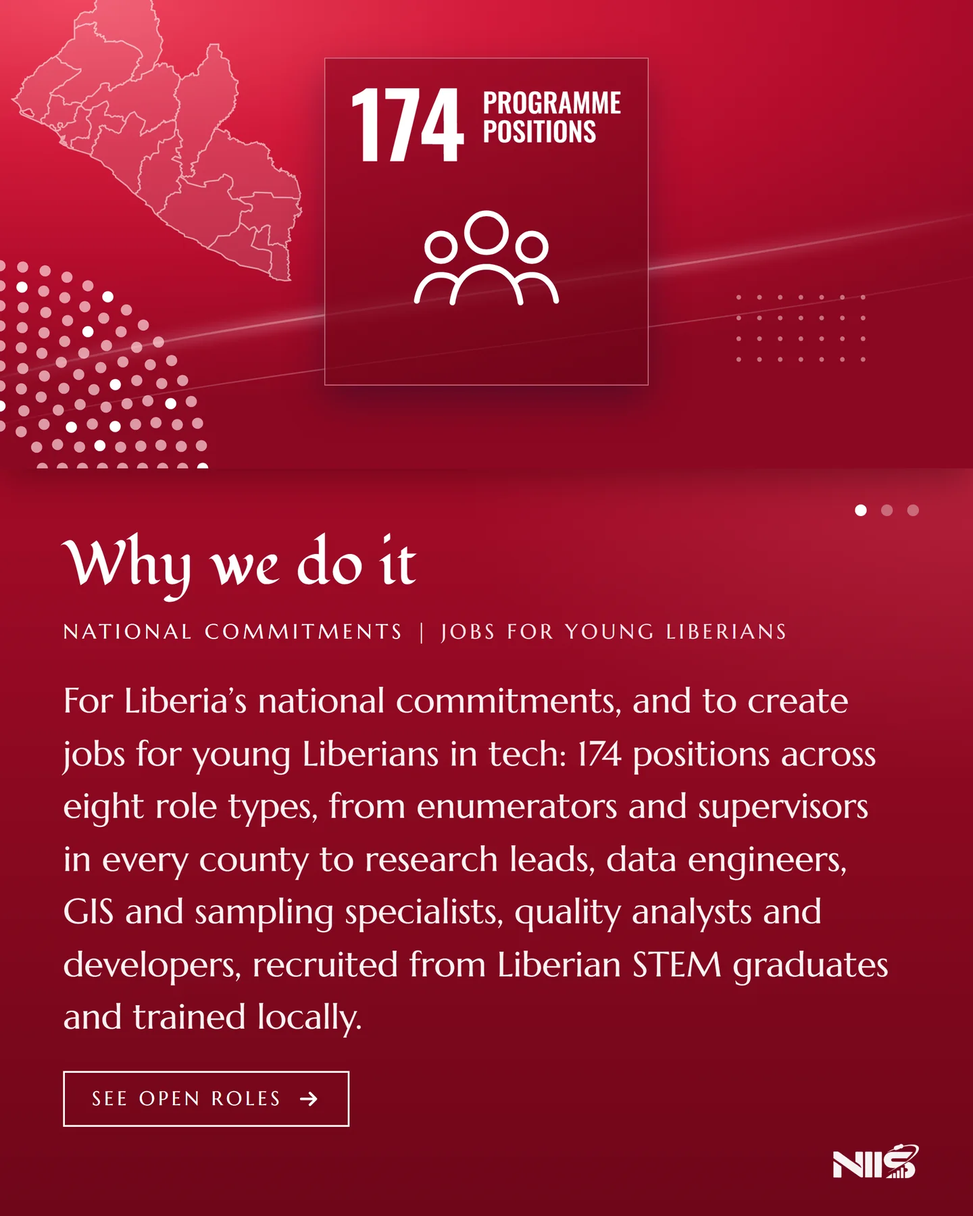
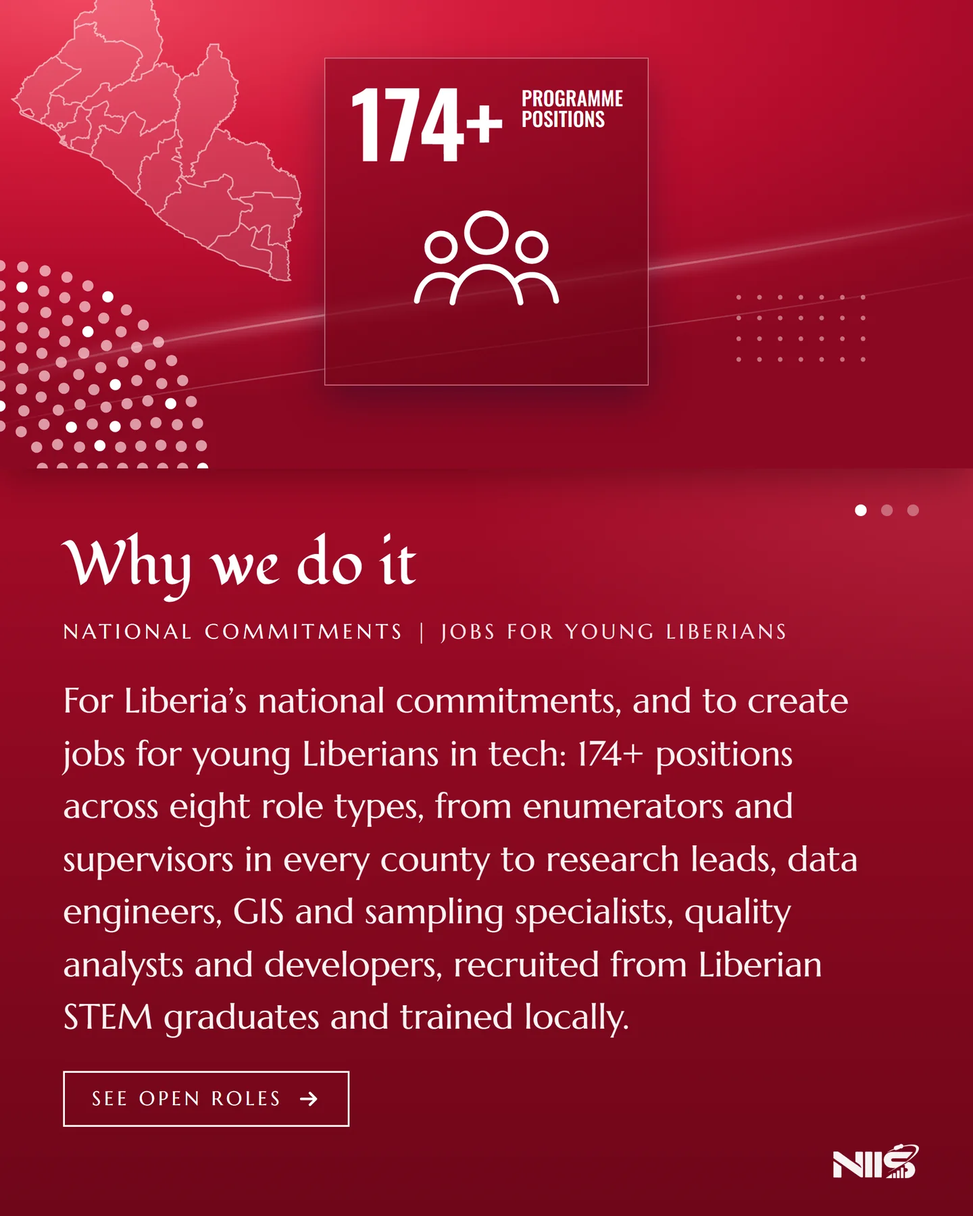
Research groups under review; no floating seal; the bird rests; jobs always 174+
- Research group pages: the invented members, emails and phone extensions are
  deleted (from the data too). Each group and its members read "Under Review".
- About and Careers: the floating 3D seal (the Republic's coat of arms) is gone.
- The bird: after 40 seconds with the reader it flies off the screen, stays away
  10 seconds and comes back, for as long as they stay (never mid-hunt or mid-slip;
  the clock runs only while the page shows).
- Jobs are never given exactly: 174+ positions on the About page, its numbers and
  its "Why we do it" card (re-rendered).

Changed region(s): [[0.0625, 0.5911, 0.9062, 0.8711], [0.4688, 0.0622, 0.6562, 0.1244]]

diff --git a/views.js b/views.js
@@ -1875,7 +1875,7 @@ exports.dashboardTopic = (ctx, { slug, label, description, counties, narrative }
 // scrolls. [alt text, link]
 const SLIDES = [
   ['What we do. 15 counties, collected, validated, published. We collect, validate and publish Liberia’s ICT statistics for all 15 counties, and we build the infrastructure that keeps them at home.'],
-  ['Why we do it. For Liberia’s national commitments, and to create jobs for young Liberians in tech: 174 positions across eight role types, from enumerators and supervisors in every county to research leads, data engineers, GIS and sampling specialists, quality analysts and developers, recruited from Liberian STEM graduates and trained locally. See open roles.', '/careers'],
+  ['Why we do it. For Liberia’s national commitments, and to create jobs for young Liberians in tech: 174+ positions across eight role types, from enumerators and supervisors in every county to research leads, data engineers, GIS and sampling specialists, quality analysts and developers, recruited from Liberian STEM graduates and trained locally. See open roles.', '/careers'],
   ['Commitment 1 of 6: ARREST Agenda for Inclusive Development, 2025 to 2029. ICT modernization sits in the Infrastructure pillar. NIIS is built to measure it.'],
   ['Commitment 2 of 6: National Digital Strategy, 2025 to 2029, of the Ministry of Posts and Telecommunications. Cybersecurity and data sovereignty is one of its eight priorities. NIIS is built to serve it.'],
   ['Commitment 3 of 6: Data Protection Act, enacted 2026. Built to Liberia’s first personal-data law: aggregate, anonymized statistics only.'],
@@ -1897,7 +1897,7 @@ exports.about = (ctx, { indicatorCount = 0, domainCount = 0 } = {}) => {
     [15, 'Counties measured', 'Every indicator, nationwide'],
     [indicatorCount, 'Indicators in the catalogue', 'Published and documented'],
     [domainCount, 'Indicator domains', 'From connectivity to sustainability'],
-    [174, 'Programme positions', 'Created for Liberian staff'],
+    [174, 'Programme positions', 'Created for Liberian staff', '+'],   // never exact: always 174+ (the owner, 9 Nov 2026)
   ].filter(([n]) => n > 0);
 
   // the mission, the problem and the answer, cut short for the kinetic type (the owner asked for few
@@ -1934,7 +1934,6 @@ exports.about = (ctx, { indicatorCount = 0, domainCount = 0 } = {}) => {
   return shell(ctx, {
     title: 'About', active: '/about', workspaceActive: 'about', extraHead: CAREERS_HEAD + `<script src="/assets/glass-folder.js?v=${ASSET_V}" defer></script>`, body: `
   <div class="cs ab" id="abPage">
-    <canvas class="cs-star" id="csStar" aria-hidden="true" data-seal="${esc(sealArt())}"></canvas>
     <section class="cs-hero cs-hero--film ab-hero" data-star="film" aria-labelledby="abTitle">
       <video class="cs-film" autoplay muted loop playsinline preload="auto" poster="/media/about-hero-poster.jpg" aria-hidden="true">
         <source src="/media/about-hero-720.mp4" type="video/mp4" media="(max-width: 760px)">
@@ -1965,9 +1964,9 @@ exports.about = (ctx, { indicatorCount = 0, domainCount = 0 } = {}) => {
           <div class="cs-row"><dt><span class="cs-tag">The access</span></dt><dd data-fill>We provide training and boot camps in partnership with international and local universities. And anyone who wants more data, a particular dataset or a new indicator can open a secure account on the platform, to search and save papers and reports, submit their research, and search for a job.</dd></div>
           <div class="cs-row"><dt><span class="cs-tag">The reason</span></dt><dd data-fill>For Liberia’s national commitments, and to create jobs for young Liberians in tech.</dd></div>
         </dl>
-        ${stats.length ? `<div class="ab-stats" role="list" aria-label="NIIP in numbers">${stats.map(([n, l, s], i) => `
+        ${stats.length ? `<div class="ab-stats" role="list" aria-label="NIIP in numbers">${stats.map(([n, l, s, plus = ''], i) => `
           <div class="ab-stat" role="listitem"${rise(i)}>
-            <p class="ab-stat-n" data-count="${n}">${n}</p>
+            <p class="ab-stat-n" data-count="${n}">${n}${plus}</p>
             <p class="ab-stat-l">${esc(l)}</p>
             <p class="ab-stat-s">${esc(s)}</p>
           </div>`).join('')}
@@ -2638,9 +2637,10 @@ const rsMeta = (p) => `<span class="bbc-meta"><time datetime="${esc(p.published_
 // The photos are slots in the Image Library (researchGroup). The site keeps no sign-up list yet, so the
 // form writes the request out as an email to the program.
 const RG_CONTACT = { email: 'info@niip.org', phones: ['0888 771 973', '0777 129 261'], office: 'Monrovia, Liberia' };
-// The six research areas (from the program deck), each with its own page. The GROUPS AND MEMBERS ARE
-// SAMPLES, written at the owner's request (29 October 2026) to show the page until the first real groups
-// form; the page says so. The rest follows international practice and is real: each group is classed by
+// The six research areas (from the program deck), each with its own page. The groups were written at the
+// owner's request (29 October 2026) to show the page until the first real groups form; their invented
+// members and contacts were deleted when the site went live (9 Nov 2026), and each group reads "Under
+// Review" until its real members are named. The rest follows international practice and is real: each group is classed by
 // the OECD Fields of Research and Development (Frascati Manual 2015) and a UN SDG target; each member's
 // contribution uses CRediT, the Contributor Roles Taxonomy (ANSI/NISO Z39.104-2022); each area lists the
 // published international standards its research works to. Members are named without institutions, so
@@ -2658,7 +2658,6 @@ const RG_SDG = { '1.4': 'Equal rights to economic resources, including financial
   '11.3': 'Inclusive, sustainable urbanization and participatory planning', '16.6': 'Effective, accountable and transparent institutions',
   '16.9': 'Legal identity for all', '16.10': 'Public access to information and fundamental freedoms', '16.a': 'National capacity to prevent violence and combat crime',
   '17.18': 'High-quality, timely and reliable data' };
-// a member: [name, role, expertise, country (and "visiting" for a visiting researcher), CRediT roles]
 const RG_AREAS = [
   { slug: 'ai', name: 'Artificial intelligence', key: 'AI',
     lede: 'Machine learning, language technology and responsible AI, built on Liberian data and Liberian questions.',
@@ -2672,29 +2671,15 @@ const RG_AREAS = [
       { slug: 'liberian-languages-nlp', name: 'Liberian Languages NLP Group', status: 'Recruiting',
         topic: 'Speech and text tools for Kpelle, Bassa and Liberian English',
         sum: 'Building open datasets and models so that digital services can listen and answer in the languages Liberians speak.',
-        tags: ['Natural language processing', 'Speech recognition', 'Low-resource languages'], ford: ['1.2', '6.2'], sdg: '10.2', std: 'UNESCO AI Ethics · FAIR data',
-        people: [['Dr. Garmai Kollie', 'Principal Investigator', 'Computational linguistics', 'Liberia', 'con sup fun'],
-          ['Dr. Kwame Owusu-Ansah', 'Co-Investigator', 'Speech recognition', 'Ghana, visiting', 'met sof'],
-          ['Siatta Flomo', 'Doctoral Researcher', 'Kpelle text corpora', 'Liberia', 'dat inv'],
-          ['Varney Kpoto', 'Research Software Engineer', 'Model training pipelines', 'Liberia', 'sof val'],
-          ['Yassah Gbatu', 'Research Assistant', 'Bassa transcription', 'Liberia', 'dat inv']] },
+        tags: ['Natural language processing', 'Speech recognition', 'Low-resource languages'], ford: ['1.2', '6.2'], sdg: '10.2', std: 'UNESCO AI Ethics · FAIR data' },
       { slug: 'responsible-ai-public-services', name: 'Responsible AI & Public Services', status: 'Active',
         topic: 'Where can AI help Liberia’s ministries, and under what safeguards?',
         sum: 'Testing small, explainable AI tools against real public-service tasks, with a risk assessment before any of them is used.',
-        tags: ['AI governance', 'Public sector', 'Risk assessment'], ford: ['1.2', '5.6'], sdg: '16.6', std: 'ISO/IEC 42001 · OECD AI Principles',
-        people: [['Dr. Augustine Sumo', 'Principal Investigator', 'AI governance', 'Liberia', 'con sup pro'],
-          ['Dr. Wanjiru Kamau', 'Co-Investigator', 'Algorithmic risk assessment', 'Kenya, visiting', 'met for'],
-          ['Patience Togba', 'Research Fellow', 'Public administration', 'Liberia', 'inv wri'],
-          ['Moses Zinnah', 'Doctoral Researcher', 'Explainable models', 'Liberia', 'sof for'],
-          ['Hawa Kanneh', 'Research Assistant', 'Stakeholder interviews', 'Liberia', 'inv']] },
+        tags: ['AI governance', 'Public sector', 'Risk assessment'], ford: ['1.2', '5.6'], sdg: '16.6', std: 'ISO/IEC 42001 · OECD AI Principles' },
       { slug: 'agri-vision-lab', name: 'Agri-Vision Lab', status: 'Active',
         topic: 'Crop disease detection from smartphone photos for smallholder farmers',
         sum: 'Training vision models on photos taken with farmers in the field, small enough to run offline on an ordinary phone.',
-        tags: ['Computer vision', 'Agriculture', 'Edge AI'], ford: ['1.2', '4.1'], sdg: '2.3', std: 'ISO/IEC 22989 · FAIR data',
-        people: [['Dr. Comfort Wesseh', 'Principal Investigator', 'Computer vision', 'Liberia', 'con sup fun'],
-          ['Dr. Tunde Adeyemi', 'Co-Investigator', 'Edge AI on smartphones', 'Nigeria, visiting', 'sof met'],
-          ['Prince Kerkula', 'Doctoral Researcher', 'Crop disease datasets', 'Liberia', 'dat inv'],
-          ['Musu Dolo', 'Research Assistant', 'Field photography with farmers', 'Liberia', 'inv res']] },
+        tags: ['Computer vision', 'Agriculture', 'Edge AI'], ford: ['1.2', '4.1'], sdg: '2.3', std: 'ISO/IEC 22989 · FAIR data' },
     ] },
   { slug: 'data-science', name: 'Data science', key: 'Data',
     lede: 'Statistics, surveys and methods that turn the national ICT record into figures people can trust.',
@@ -2708,28 +2693,15 @@ const RG_AREAS = [
       { slug: 'survey-methods-unit', name: 'Survey Methods Unit', status: 'Active',
         topic: 'Small-area estimates of internet use for all 15 counties',
         sum: 'Combining household surveys with administrative data to give every county a reliable figure, with its margin of error beside it.',
-        tags: ['Survey sampling', 'Small-area estimation', 'Official statistics'], ford: ['1.1'], sdg: '17.18', std: 'UN Fundamental Principles · DDI',
-        people: [['Prof. Samuel Tarr', 'Principal Investigator', 'Survey statistics', 'Liberia', 'con met sup'],
-          ['Dr. Fatmata Sesay', 'Co-Investigator', 'Small-area estimation', 'Sierra Leone, visiting', 'met for'],
-          ['Korto Mulbah', 'Research Fellow', 'Sampling frames', 'Liberia', 'dat val'],
-          ['Isaac Gono', 'Doctoral Researcher', 'Bayesian models', 'Liberia', 'for sof'],
-          ['Oretha Saah', 'Research Assistant', 'Field supervision', 'Liberia', 'inv']] },
+        tags: ['Survey sampling', 'Small-area estimation', 'Official statistics'], ford: ['1.1'], sdg: '17.18', std: 'UN Fundamental Principles · DDI' },
       { slug: 'open-data-fair-practice', name: 'Open Data & FAIR Practice', status: 'Active',
         topic: 'Making NIIS indicators findable, accessible, interoperable and reusable',
         sum: 'Writing the metadata, identifiers and open licences that let anyone reuse the national indicators with confidence.',
-        tags: ['Metadata', 'SDMX', 'Open data'], ford: ['1.2'], sdg: '17.18', std: 'FAIR · ISO 17369 (SDMX)',
-        people: [['Dr. Martha Karpeh', 'Principal Investigator', 'Research data management', 'Liberia', 'con dat sup'],
-          ['Jean-Paul Habimana', 'Visiting Researcher', 'SDMX and metadata', 'Rwanda, visiting', 'met sof'],
-          ['Arthur Kromah', 'Data Steward', 'Indicator metadata', 'Liberia', 'dat val'],
-          ['Elfreda Jallah', 'Research Assistant', 'Open licensing', 'Liberia', 'res rev']] },
+        tags: ['Metadata', 'SDMX', 'Open data'], ford: ['1.2'], sdg: '17.18', std: 'FAIR · ISO 17369 (SDMX)' },
       { slug: 'data-literacy-lab', name: 'Data Literacy Lab', status: 'Recruiting',
         topic: 'Helping county officers read and use ICT indicators',
         sum: 'Designing short courses and plain charts, then measuring whether officers use the figures in their own planning.',
-        tags: ['Data literacy', 'Visualization', 'Capacity building'], ford: ['5.3'], sdg: '4.4', std: 'UN Fundamental Principles',
-        people: [['Dr. Benedict Tokpa', 'Principal Investigator', 'Statistics education', 'Liberia', 'con sup'],
-          ['Esther Gbollie', 'Research Fellow', 'Visualization design', 'Liberia', 'vis wri'],
-          ['Abena Boateng', 'Visiting Researcher', 'Learning evaluation', 'Ghana, visiting', 'met for'],
-          ['Lawrence Wleh', 'Research Assistant', 'County workshops', 'Liberia', 'inv pro']] },
+        tags: ['Data literacy', 'Visualization', 'Capacity building'], ford: ['5.3'], sdg: '4.4', std: 'UN Fundamental Principles' },
     ] },
   { slug: 'cybersecurity', name: 'Cybersecurity', key: 'Cyber',
     lede: 'Protecting networks, services and personal data as more of Liberia’s life moves online.',
@@ -2743,28 +2715,15 @@ const RG_AREAS = [
       { slug: 'threat-intelligence-group', name: 'Threat Intelligence Group', status: 'Active',
         topic: 'Mapping phishing and mobile-money fraud patterns in Liberia',
         sum: 'Collecting reported incidents into one anonymised dataset, so patterns can be seen and warnings given early.',
-        tags: ['Threat intelligence', 'Fraud', 'Incident data'], ford: ['1.2'], sdg: '16.a', std: 'NIST CSF 2.0 · ITU-T X.1205',
-        people: [['Dr. Jerome Kamara', 'Principal Investigator', 'Threat intelligence', 'Liberia', 'con sup pro'],
-          ['Dr. Chiamaka Okafor', 'Co-Investigator', 'Fraud analytics', 'Nigeria, visiting', 'for met'],
-          ['Kebeh Tweh', 'Doctoral Researcher', 'Phishing detection', 'Liberia', 'sof inv'],
-          ['Stephen Sackie', 'Research Assistant', 'Incident data collection', 'Liberia', 'dat inv']] },
+        tags: ['Threat intelligence', 'Fraud', 'Incident data'], ford: ['1.2'], sdg: '16.a', std: 'NIST CSF 2.0 · ITU-T X.1205' },
       { slug: 'critical-infrastructure-security', name: 'Critical Infrastructure Security', status: 'Active',
         topic: 'How resilient are the networks and data centres Liberia depends on?',
         sum: 'Assessing single points of failure and recovery plans, and setting out what a minimum standard should be.',
-        tags: ['Critical infrastructure', 'Resilience', 'Risk assessment'], ford: ['2.2'], sdg: '9.1', std: 'ISO/IEC 27001 · NIST CSF 2.0',
-        people: [['Prof. Alfred Nimely', 'Principal Investigator', 'Network resilience', 'Liberia', 'con sup fun'],
-          ['Dr. Ibrahim Kargbo', 'Co-Investigator', 'Industrial control systems', 'Sierra Leone, visiting', 'met val'],
-          ['Mercy Paye', 'Research Fellow', 'Information security risk', 'Liberia', 'inv wri'],
-          ['Daniel Kpadeh', 'Research Software Engineer', 'Monitoring tools', 'Liberia', 'sof'],
-          ['Princess Teah', 'Research Assistant', 'Asset inventories', 'Liberia', 'dat']] },
+        tags: ['Critical infrastructure', 'Resilience', 'Risk assessment'], ford: ['2.2'], sdg: '9.1', std: 'ISO/IEC 27001 · NIST CSF 2.0' },
       { slug: 'privacy-data-protection-clinic', name: 'Privacy & Data Protection Clinic', status: 'Recruiting',
         topic: 'Putting data protection into practice for Liberia’s small businesses',
         sum: 'Plain guidance and simple checklists, tested with real shops, schools and clinics that keep customer data.',
-        tags: ['Privacy', 'Compliance', 'Personal data'], ford: ['5.5'], sdg: '16.10', std: 'Malabo Convention · ISO/IEC 27001',
-        people: [['Dr. Teta Zubah', 'Principal Investigator', 'Data protection law', 'Liberia', 'con sup wri'],
-          ['Aminata Diallo', 'Visiting Researcher', 'Privacy engineering', 'Senegal, visiting', 'met rev'],
-          ['Edwin Karmo', 'Doctoral Researcher', 'Compliance for small firms', 'Liberia', 'inv for'],
-          ['Fatu Konneh', 'Research Assistant', 'Case studies', 'Liberia', 'inv']] },
+        tags: ['Privacy', 'Compliance', 'Personal data'], ford: ['5.5'], sdg: '16.10', std: 'Malabo Convention · ISO/IEC 27001' },
     ] },
   { slug: 'connectivity', name: 'Connectivity', key: 'Net',
     lede: 'Coverage, quality, price and use: who is online in Liberia, how well, and at what cost.',
@@ -2778,28 +2737,15 @@ const RG_AREAS = [
       { slug: 'broadband-quality-observatory', name: 'Broadband Quality Observatory', status: 'Active',
         topic: 'Measuring mobile broadband speed and latency county by county',
         sum: 'Pairing drive tests with measurements from volunteers’ phones to map real network quality across the 15 counties.',
-        tags: ['Quality of service', 'Network measurement', 'Crowdsourced data'], ford: ['2.2'], sdg: '9.c', std: 'ITU-T E.800 · ITU Handbook',
-        people: [['Dr. Christopher Gaye', 'Principal Investigator', 'Network measurement', 'Liberia', 'con met sup'],
-          ['Otieno Ochieng', 'Visiting Researcher', 'Crowdsourced QoS data', 'Kenya, visiting', 'sof for'],
-          ['Kula Siaffa', 'Doctoral Researcher', 'Speed and latency analysis', 'Liberia', 'for vis'],
-          ['Momo Kiazolu', 'Research Software Engineer', 'Measurement app', 'Liberia', 'sof'],
-          ['Mamie Dunbar', 'Research Assistant', 'County drive tests', 'Liberia', 'inv dat']] },
+        tags: ['Quality of service', 'Network measurement', 'Crowdsourced data'], ford: ['2.2'], sdg: '9.c', std: 'ITU-T E.800 · ITU Handbook' },
       { slug: 'affordability-access', name: 'Affordability & Access', status: 'Active',
         topic: 'What does 1 GB cost a Liberian household, and who is priced out?',
         sum: 'Tracking data prices against household budgets, measured against the “1 for 2” target.',
-        tags: ['Affordability', 'Pricing', 'Household budgets'], ford: ['5.2'], sdg: '9.c', std: '“1 for 2” target · ITU Manual',
-        people: [['Dr. Elizabeth Nyan', 'Principal Investigator', 'Telecom economics', 'Liberia', 'con sup fun'],
-          ['Dr. Kofi Mensah', 'Co-Investigator', 'Price benchmarking', 'Ghana, visiting', 'met for'],
-          ['Joseph Dahn', 'Research Fellow', 'Household budgets', 'Liberia', 'inv for'],
-          ['Massa Gweh', 'Research Assistant', 'Price collection', 'Liberia', 'dat']] },
+        tags: ['Affordability', 'Pricing', 'Household budgets'], ford: ['5.2'], sdg: '9.c', std: '“1 for 2” target · ITU Manual' },
       { slug: 'rural-connectivity-models', name: 'Rural Connectivity Models', status: 'Recruiting',
         topic: 'Community networks and satellite backhaul for unconnected towns',
         sum: 'Costing the ways a town without coverage could get online, and who would run and pay for each.',
-        tags: ['Community networks', 'Satellite', 'Last mile'], ford: ['2.2'], sdg: '9.c', std: 'ITU Manual · ITU Handbook',
-        people: [['Dr. Peter Kun', 'Principal Investigator', 'Last-mile networks', 'Liberia', 'con sup'],
-          ['Thandiwe Nkosi', 'Visiting Researcher', 'Community networks', 'South Africa, visiting', 'met res'],
-          ['Saye Dweh', 'Doctoral Researcher', 'Satellite backhaul costs', 'Liberia', 'for inv'],
-          ['Ruth Wreh', 'Research Assistant', 'Town surveys', 'Liberia', 'inv']] },
+        tags: ['Community networks', 'Satellite', 'Last mile'], ford: ['2.2'], sdg: '9.c', std: 'ITU Manual · ITU Handbook' },
     ] },
   { slug: 'digital-finance', name: 'Digital finance', key: 'Fin',
     lede: 'Mobile money, digital payments and the inclusion they bring, or leave out.',
@@ -2813,28 +2759,15 @@ const RG_AREAS = [
       { slug: 'mobile-money-inclusion', name: 'Mobile Money Inclusion Group', status: 'Active',
         topic: 'Who uses mobile money in Liberia, and who is left out?',
         sum: 'Survey and agent interviews on use, trust and cost, broken down by gender, age and county.',
-        tags: ['Financial inclusion', 'Gender gap', 'Surveys'], ford: ['5.2'], sdg: '8.10', std: 'G20 Principles · DDI',
-        people: [['Dr. Yatta Morris', 'Principal Investigator', 'Financial inclusion', 'Liberia', 'con sup fun'],
-          ['Dr. Akosua Asare', 'Co-Investigator', 'Gender and finance', 'Ghana, visiting', 'met wri'],
-          ['Abraham Juah', 'Doctoral Researcher', 'Survey analysis', 'Liberia', 'for vis'],
-          ['Rebecca Kpaan', 'Research Assistant', 'Agent interviews', 'Liberia', 'inv']] },
+        tags: ['Financial inclusion', 'Gender gap', 'Surveys'], ford: ['5.2'], sdg: '8.10', std: 'G20 Principles · DDI' },
       { slug: 'payments-interoperability', name: 'Payments Interoperability', status: 'Active',
         topic: 'Linking mobile wallets and bank accounts on ISO 20022 messaging',
         sum: 'A working prototype of a switch, and the rules it would need, so money moves between any wallet and any bank.',
-        tags: ['Interoperability', 'ISO 20022', 'Payments'], ford: ['5.2', '1.2'], sdg: '8.10', std: 'ISO 20022 · CPMI–IOSCO PFMI',
-        people: [['Dr. Francis Varney', 'Principal Investigator', 'Payment systems', 'Liberia', 'con sup'],
-          ['Aline Uwase', 'Visiting Researcher', 'ISO 20022 messaging', 'Rwanda, visiting', 'met sof'],
-          ['George Kulah', 'Research Software Engineer', 'Switch prototype', 'Liberia', 'sof val'],
-          ['Sarah Gbozee', 'Research Fellow', 'Payments regulation', 'Liberia', 'inv wri'],
-          ['Matthew Sayeh', 'Research Assistant', 'Transaction data', 'Liberia', 'dat']] },
+        tags: ['Interoperability', 'ISO 20022', 'Payments'], ford: ['5.2', '1.2'], sdg: '8.10', std: 'ISO 20022 · CPMI–IOSCO PFMI' },
       { slug: 'digital-credit-consumer-protection', name: 'Digital Credit & Consumer Protection', status: 'Forming',
         topic: 'Fair rules for app-based loans',
         sum: 'What borrowers are told, what they pay and what happens when they fall behind, and what fair disclosure should look like.',
-        tags: ['Digital credit', 'Consumer protection', 'Regulation'], ford: ['5.5', '5.2'], sdg: '1.4', std: 'G20 Principles · FATF',
-        people: [['Dr. Victoria Yancy', 'Principal Investigator', 'Consumer finance law', 'Liberia', 'con sup'],
-          ['Yao Kouassi', 'Visiting Researcher', 'Credit scoring', 'Côte d’Ivoire, visiting', 'met for'],
-          ['Cecelia Kpehe', 'Doctoral Researcher', 'Borrower experience', 'Liberia', 'inv wri'],
-          ['Thomas Tamba', 'Research Assistant', 'Loan-app reviews', 'Liberia', 'dat']] },
+        tags: ['Digital credit', 'Consumer protection', 'Regulation'], ford: ['5.5', '5.2'], sdg: '1.4', std: 'G20 Principles · FATF' },
     ] },
   { slug: 'emerging-tech', name: 'Emerging tech', key: 'Tech',
     lede: 'The Internet of Things, drones, digital identity and other new technologies, tested against Liberian needs.',
@@ -2848,28 +2781,15 @@ const RG_AREAS = [
       { slug: 'iot-public-services', name: 'IoT for Public Services', status: 'Active',
         topic: 'Low-cost sensors for water points and clinic cold chains',
         sum: 'Solar-powered sensors that report when a pump fails or a vaccine fridge warms, over low-power radio.',
-        tags: ['Internet of Things', 'Sensors', 'LoRaWAN'], ford: ['2.2'], sdg: '6.1', std: 'ISO/IEC 30141 · ITU-T Y.4000',
-        people: [['Dr. Aaron Mator', 'Principal Investigator', 'Embedded systems', 'Liberia', 'con sup fun'],
-          ['Dr. Nkechi Eze', 'Co-Investigator', 'LoRaWAN networks', 'Nigeria, visiting', 'met sof'],
-          ['Bendu Gbeh', 'Doctoral Researcher', 'Water-point sensors', 'Liberia', 'inv dat'],
-          ['Eric Nyumah', 'Research Software Engineer', 'Monitoring dashboards', 'Liberia', 'sof vis']] },
+        tags: ['Internet of Things', 'Sensors', 'LoRaWAN'], ford: ['2.2'], sdg: '6.1', std: 'ISO/IEC 30141 · ITU-T Y.4000' },
       { slug: 'drones-geospatial-lab', name: 'Drones & Geospatial Lab', status: 'Active',
         topic: 'Drone mapping to update settlement and road data',
         sum: 'Flying and processing aerial surveys so planners and the census have current maps of fast-growing towns.',
-        tags: ['Drones', 'GIS', 'Mapping'], ford: ['1.5', '2.11'], sdg: '11.3', std: 'ISO 56002 · FAIR data',
-        people: [['Dr. Rita Cooper', 'Principal Investigator', 'Remote sensing', 'Liberia', 'con sup'],
-          ['Brian Mwangi', 'Visiting Researcher', 'Drone photogrammetry', 'Kenya, visiting', 'met sof'],
-          ['Amos Dennis', 'Research Fellow', 'GIS', 'Liberia', 'for vis'],
-          ['Josephine Freeman', 'Research Assistant', 'Ground truthing', 'Liberia', 'inv'],
-          ['Nathaniel Gartor', 'Research Assistant', 'Flight operations', 'Liberia', 'inv res']] },
+        tags: ['Drones', 'GIS', 'Mapping'], ford: ['1.5', '2.11'], sdg: '11.3', std: 'ISO 56002 · FAIR data' },
       { slug: 'digital-identity-trust', name: 'Digital Identity & Trust', status: 'Forming',
         topic: 'Verifiable credentials for certificates and licences',
         sum: 'Certificates that a school, employer or clinic can check in seconds, without a phone call and without a forgery.',
-        tags: ['Digital identity', 'Verifiable credentials', 'Cryptography'], ford: ['1.2'], sdg: '16.9', std: 'W3C Verifiable Credentials',
-        people: [['Dr. Dorothy Siryon', 'Principal Investigator', 'Digital identity', 'Liberia', 'con sup'],
-          ['Moussa Traoré', 'Visiting Researcher', 'Verifiable credentials', 'Mali, visiting', 'met sof'],
-          ['James Tuan', 'Doctoral Researcher', 'Applied cryptography', 'Liberia', 'for sof'],
-          ['Hannah Wesley', 'Research Assistant', 'User studies', 'Liberia', 'inv']] },
+        tags: ['Digital identity', 'Verifiable credentials', 'Cryptography'], ford: ['1.2'], sdg: '16.9', std: 'W3C Verifiable Credentials' },
     ] },
 ];
 // standards that hold across every group, whatever the area
@@ -2992,28 +2912,18 @@ ${body}
 };
 
 // An area's own page (/research/group/<area>), in the same design: the area lettered on one great key,
-// its groups (research question, classification, members), the standards it works to, and the graphite
+// its groups (research question and classification; members under review), the standards it works to, and the graphite
 // band with the way to join and the areas either side. Null for an unknown area, so the server can 404.
 exports.researchArea = (slug) => {
   const area = rgArea(slug);
   if (!area) return null;
   const i = RG_AREAS.indexOf(area), n = RG_AREAS.length;
   const prev = RG_AREAS[(i - 1 + n) % n], next = RG_AREAS[(i + 1) % n];
-  const members = area.groups.reduce((t, g) => t + g.people.length, 0);
   const no = String(i + 1).padStart(2, '0');
   const ford = (codes) => codes.map((c) => `${c} ${RG_FORD[c]}`).join('; ');
-  // each member's email at the program's domain, and the program's line with their own extension
-  // (dialled as RFC 3966 has it), so no sample number can ring a stranger's phone
-  const email = (name) => name.replace(/^(Dr|Prof)\.\s+/, '').normalize('NFD').replace(/[\u0300-\u036f]/g, '').toLowerCase().split(/\s+/).filter(Boolean).join('.') + '@niip.org';
-  const person = ([name, role, expertise, country, credit], k, gi) => `<li class="ra-person">
-              ${rgKey(`ra-face${k === 0 ? ' is-on' : ''}`, esc(rgInitials(name))).replace('<span class="m-key ', '<span aria-hidden="true" class="m-key ')}
-              <div><b>${esc(name)}</b><span class="m-text-8">${esc(role)} · ${esc(expertise)} · ${esc(country)}</span>
-                <p class="ra-credit"><span class="sr-only">Contribution roles: </span>${credit.split(' ').map((c) => esc(RG_CREDIT[c])).join(' · ')}</p>
-                <p class="ra-reach"><a class="m-link" href="mailto:${email(name)}">${email(name)}</a><a class="m-link" href="tel:+231888771973;ext=${(i + 1) * 100 + gi * 20 + k + 1}">0888 771 973 ext. ${(i + 1) * 100 + gi * 20 + k + 1}</a></p></div>
-            </li>`;
   const group = (g, gi) => `<article class="m-surface ra-group" id="${g.slug}" data-8b-motion="rise" aria-labelledby="${g.slug}-name">
         <div class="ra-about">
-          <span class="m-text-4 ra-status">${rgKey(g.status === 'Active' ? 'is-on' : '', '').replace('<span class="m-key ', '<span aria-hidden="true" class="m-key ')}${esc(g.status)}</span>
+          <span class="m-text-4 ra-status">${rgKey('', '').replace('<span class="m-key ', '<span aria-hidden="true" class="m-key ')}Under Review</span>
           <h3 class="m-text-5" id="${g.slug}-name">${esc(g.name)}</h3>
           <p class="m-text-7 ra-topic">${esc(g.topic)}</p>
           <p class="m-text-8 ra-sum">${esc(g.sum)}</p>
@@ -3022,19 +2932,16 @@ exports.researchArea = (slug) => {
             <div><dt class="m-text-4">Field (OECD FORD)</dt><dd>${esc(ford(g.ford))}</dd></div>
             <div><dt class="m-text-4">SDG target</dt><dd>${esc(g.sdg)} · ${esc(RG_SDG[g.sdg])}</dd></div>
             <div><dt class="m-text-4">Standards</dt><dd>${esc(g.std)}</dd></div>
-            <div><dt class="m-text-4">Members</dt><dd>${g.people.length}, led by ${esc(g.people[0][0])}</dd></div>
           </dl>
         </div>
         <div class="ra-people">
           <h4 class="m-text-4">Members</h4>
-          <ul>
-            ${g.people.map((p, k) => person(p, k, gi)).join('\n            ')}
-          </ul>
+          <p class="m-text-5 ra-review">Under Review</p>
         </div>
       </article>`;
   const std = ([code, name, what]) => `<li><span class="m-text-4">${esc(code)}</span><h3 class="m-text-5">${esc(name)}</h3><p class="m-text-8">${esc(what)}</p></li>`;
   const step = (a, dir) => `<a class="ra-step" href="/research/group/${a.slug}">${rgKey3('', dir === 'prev' ? RG_G.left : RG_G.right).replace('<span class="m-key-3 ', '<span aria-hidden="true" class="m-key-3 ')}<span><span class="m-text-9">${dir === 'prev' ? 'Previous area' : 'Next area'}</span><b>${esc(a.name)}</b></span></a>`;
-  const desc = `${area.name}: NIIP’s research groups in this area, the questions they are working on and the people in them.`;
+  const desc = `${area.name}: NIIP’s research groups in this area, the questions they are working on.`;
   const body = `<!-- hero: the area's name, its line, and the area lettered on one great key -->
 <section id="hero" class="hero is-area" data-8b-section="hero" aria-labelledby="hero-title">
   ${rgSeal('hero', 'light', true)}
@@ -3047,7 +2954,7 @@ exports.researchArea = (slug) => {
         ${rgBtn(`${RG_JOIN}?area=${area.slug}#contact`, 'Join this area')}
         <a class="m-link" href="#groups">Meet the groups</a>
       </div>
-      <p class="m-text-8 hero__note">${area.groups.length} groups · ${members} members · <a class="m-link" href="/research/group#states">All six areas</a></p>
+      <p class="m-text-8 hero__note">${area.groups.length} groups · Members under review · <a class="m-link" href="/research/group#states">All six areas</a></p>
     </div>
     <div class="hero__stage">
       <div class="ra-stage">
@@ -4762,7 +4669,6 @@ exports.careers = (ctx) => {
   return shell(ctx, {
     title: 'Careers', active: '/careers', workspaceActive: 'careers', extraHead: CAREERS_HEAD, body: `
   <div class="cs" id="csPage">
-    <canvas class="cs-star" id="csStar" aria-hidden="true" data-seal="${esc(sealArt())}"></canvas>
 
     <section class="cs-hero cs-hero--film" data-star="film" aria-labelledby="csTitle">
       <video class="cs-film" autoplay muted loop playsinline preload="auto" poster="/media/careers-hero-poster.jpg" aria-hidden="true">

diff --git a/public/bird.js b/public/bird.js
@@ -249,6 +249,10 @@ async function start() {
   let state = perch ? S.PERCHED : S.AWAY;
   let everSeen = false, seenFor = 0, scrolled = false, now = 0, lastScroll = 0, lastAct = 0, scrollDir = 1, lastY = scrollY;
   let flight = null, pending = null, awayT = 0, awayWait = 1.4, launchT = 0, roll = 0, modeHold = 0, busyT = 0, startleCool = 0;
+  // a rest (the owner, 9 Nov 2026): after 40 seconds with the reader the bird flies off the screen, stays
+  // away for 10 and comes back, and so on for as long as they stay. The clock only runs while the page shows.
+  const REST_AFTER = 40, REST_FOR = 10;
+  let nextRest = REST_AFTER, rest = null;
   if (!perch) root.visible = false;
   let lastBehaviour = '', behaviours = 0, mYaw = 0, mLook = 0;
   let ep = null, epWait = null, epName = '', epStart = 0, nextWorm = Infinity, wormHole = null, lastMiss = '', misses = 0;
@@ -338,7 +342,7 @@ async function start() {
   function launchFrom(from, opts = {}, midAir = false) {
     from = { x: from.x, y: from.y, z: from.z || 0 };
     let target = opts.target || null, pt = target ? perchPoint(target) : null;
-    if (!target) {
+    if (!target && !opts.exit) {
       const t = targets(perch && perch.role !== 'ground' && (state === S.PERCHED || state === S.TAKEOFF) ? perch : null);
       if (t.length) { const o = pick(t); target = o.p; pt = o.pt; }
     }
@@ -564,6 +568,13 @@ async function start() {
     if (covered) { scrolled = false; return; }
     let draw = true;
     busyT -= dt; startleCool -= dt;
+    // time for a rest: off the screen by the shortest way (never in the middle of a worm hunt or a slip)
+    if (!rest && now >= nextRest && !ep && !slip) {
+      rest = { until: Infinity };
+      if (state === S.PERCHED) takeOff({ exit: true });
+      else if (state === S.TAKEOFF) pending = { exit: true };
+      else if (state === S.FLY) launchFrom(birdAt(), { exit: true }, true);
+    }
     // a scroll ends a worm hunt: the worm is gone in an instant and the bird gets on with its day
     if (scrolled && ep) {
       stopWorm();
@@ -669,7 +680,12 @@ async function start() {
       }
     } else if (state === S.AWAY) {
       awayT += dt; draw = false;
-      if (awayT > awayWait && now - lastScroll > 0.25) {
+      // resting out of sight: ten seconds from the moment it left, then back, and the next rest in forty
+      if (rest) {
+        if (rest.until === Infinity) rest.until = now + REST_FOR;
+        if (now >= rest.until) { rest = null; nextRest = now + REST_AFTER; awayT = awayWait; }
+      }
+      if (!rest && awayT > awayWait && now - lastScroll > 0.25) {
         if (!comeBack()) {
           awayWait = awayT + 0.5;
           if (idleFor() > 10 && now - lastAct > 12) passBy();          // nowhere to land: fly past now and then
@@ -705,7 +721,7 @@ async function start() {
   // read-only status for testing in the console
   window.__roboTuraco = {
     get state() { return state; }, get perch() { return perch && (perch.el ? perch.role + ': ' + perch.el.textContent.trim().replace(/\s+/g, ' ').slice(0, 40) : perch.role); }, get route() { return flight && flight.name; },
-    get perches() { return perches.length; },
+    get perches() { return perches.length; }, get resting() { return rest ? (rest.until === Infinity ? 'leaving' : 'away') : ''; }, get clock() { return +now.toFixed(1); },
     get behaviour() { return lastBehaviour; }, get behaviours() { return behaviours; }, get hunt() { return ep ? epName || 'spotting' : ''; },
     get misses() { return misses; }, get wormOut() { return worm.out; }, startWorm, root, get slipping() { return slip ? +slip.t.toFixed(2) : 0; },
   };

diff --git a/design/about-slides/deck.html b/design/about-slides/deck.html
@@ -191,8 +191,8 @@ var D = [
   { num: '15', lab: 'Counties measured', ico: 'map', sign: 'signal', mark: 'lr', h: 'What we do', sub: ['15 counties', 'Collected, validated, published'],
     body: 'We collect, validate and publish Liberia’s ICT statistics for all 15 counties, and we build the infrastructure that keeps them at home.',
     foot: 'Liberia’s ICT data, collected and managed by Liberians.' },
-  { num: '174', lab: 'Programme positions', ico: 'people', sign: 'dots', mark: 'lr', theme: 'red', h: 'Why we do it', sub: ['National commitments', 'Jobs for young Liberians'],
-    body: 'For Liberia’s national commitments, and to create jobs for young Liberians in tech: 174 positions across eight role types, from enumerators and supervisors in every county to research leads, data engineers, GIS and sampling specialists, quality analysts and developers, recruited from Liberian STEM graduates and trained locally.',
+  { num: '174+', lab: 'Programme positions', ico: 'people', sign: 'dots', mark: 'lr', theme: 'red', h: 'Why we do it', sub: ['National commitments', 'Jobs for young Liberians'],
+    body: 'For Liberia’s national commitments, and to create jobs for young Liberians in tech: 174+ positions across eight role types, from enumerators and supervisors in every county to research leads, data engineers, GIS and sampling specialists, quality analysts and developers, recruited from Liberian STEM graduates and trained locally.',
     cta: 'See open roles' },
   { num: '01', lab: 'ARREST Agenda', ico: 'flag', sign: 'pillars', mark: 'img:seal', theme: 'arrest', h: 'ARREST Agenda for Inclusive Development', sub: ['2025–2029', 'Infrastructure pillar'],
     body: 'ICT modernization sits in the Infrastructure pillar. NIIS is built to measure it.', foot: 'Commitment 01 of 06' },
